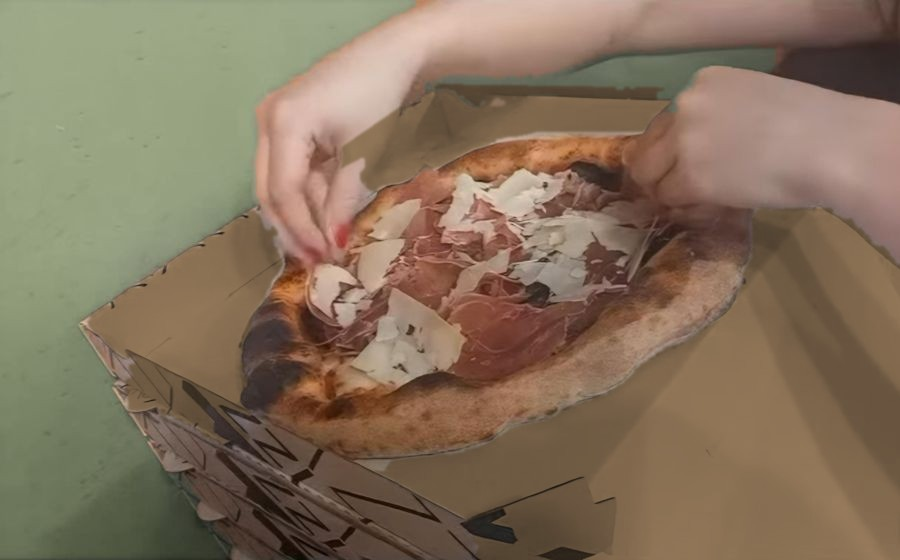
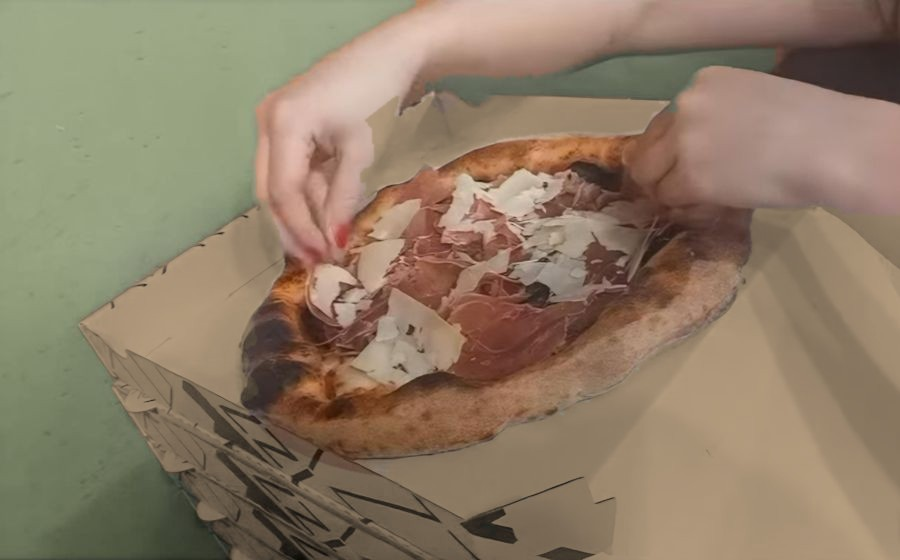
Prova: foto crudo rifatta, cartone craft uniforme con maschera precisa
Claude-Session: https://claude.ai/code/session_01VttuGCFUxa7xeo49rCehPE

diff --git a/_src/recolor/kraft.py b/_src/recolor/kraft.py
@@ -1,33 +1,40 @@
-# crudo.jpg: cartone bianco -> craft (disegni neri restano). uso: python3 kraft.py in.jpg out.jpg [anteprima.jpg]
+# crudo: cartone bianco -> craft uniforme (colore del fondo vicino alla «Z»), disegni neri invariati.
+# uso: python3 kraft.py originale.jpg out.jpg [maschera.jpg]
 import cv2,numpy as np,sys
 im=cv2.imread(sys.argv[1]);h,w=im.shape[:2]
 hsv=cv2.cvtColor(im,cv2.COLOR_BGR2HSV).astype(np.float32);H,S,V=hsv[...,0],hsv[...,1],hsv[...,2]
-box=((S<45)&(V>40)).astype(np.uint8)          # bianco/grigio/nero del cartone
-poly=np.array([(76,322),(255,206),(398,108),(430,84),(690,88),(900,178),(900,560),(215,560)],np.int32)
+poly=np.array([(78,322),(255,205),(395,96),(672,94),(900,196),(900,560),(222,560),(108,382)],np.int32)
 inbox=np.zeros((h,w),np.uint8);cv2.fillPoly(inbox,[poly],1)
-big=np.zeros((h,w),np.uint8);cv2.ellipse(big,(493,292),(285,175),-14,0,360,1,-1)
-sat=((S>55)&(big>0)).astype(np.uint8)
-sat=cv2.morphologyEx(sat,cv2.MORPH_CLOSE,cv2.getStructuringElement(cv2.MORPH_ELLIPSE,(41,41)))
-n,lab,st,_=cv2.connectedComponentsWithStats(sat,8);k=1+int(np.argmax(st[1:,4]));pz=(lab==k).astype(np.uint8)
-ff=pz.copy();m=np.zeros((h+2,w+2),np.uint8);cv2.floodFill(ff,m,(0,0),1);pz=pz|(1-ff)
-pz=cv2.erode(pz,np.ones((5,5),np.uint8))
-keep=(box&inbox).astype(np.uint8);keep[pz>0]=0
-keep=cv2.morphologyEx(keep,cv2.MORPH_OPEN,np.ones((3,3),np.uint8))
-n,lab,st,_=cv2.connectedComponentsWithStats(keep,8)
-k2=np.zeros_like(keep)
+hz=np.zeros((h,w),np.uint8)
+cv2.fillPoly(hz,[np.array([(250,0),(650,0),(650,92),(470,92),(420,130),(390,200),(350,262),(290,264),(248,150)],np.int32),
+                 np.array([(628,58),(900,58),(900,214),(760,212),(700,196),(650,176),(624,130)],np.int32)],1)
+skin=(hz>0)&(((H<=24)|(H>=165))&(S>=50))
+green=(H>=30)&(H<=95)&(S>=22)
+# pizza: zona satura grande e centrale, buchi piccoli (grana) riempiti
+sat=((S>55)&(H<=24)).astype(np.uint8)
+big=np.zeros((h,w),np.uint8);cv2.ellipse(big,(493,300),(280,170),-14,0,360,1,-1);sat[big==0]=0
+sat=cv2.morphologyEx(sat,cv2.MORPH_CLOSE,cv2.getStructuringElement(cv2.MORPH_ELLIPSE,(15,15)))
+inv=(1-sat).astype(np.uint8);n,lab,st,_=cv2.connectedComponentsWithStats(inv,4)
 for i in range(1,n):
-    if st[i,4]>400: k2[lab==i]=1
-keep=cv2.morphologyEx(k2,cv2.MORPH_CLOSE,np.ones((5,5),np.uint8));keep[pz>0]=0;keep[inbox==0]=0
-# zone indicate dal titolare (05.11): bordo dietro, vicino alla mano, sotto la pizza -> soglia più larga
-pzi=cv2.erode(pz,np.ones((13,13),np.uint8))
-for (x0,y0,x1,y1) in [(430,52,672,132),(325,92,490,240),(352,440,445,540)]:
-    r=np.zeros((h,w),np.uint8);r[y0:y1,x0:x1]=1
-    keep[(r>0)&(S<80)&(V>110)&(inbox>0)&(pz==0)]=1
-    keep[(r>0)&(S<50)&(V>140)&(inbox>0)&(pzi==0)]=1   # bordo chiaro attorno al cornicione
-a=cv2.GaussianBlur(keep.astype(np.float32),(0,0),1.2)[...,None]
-kraft=np.array([128,172,212],np.float32)/255   # BGR del craft chiaro
-L=V/255.0;Lc=np.where(L<0.45,L,0.45+(L-0.45)*0.65)   # schiarite compresse: interno uguale all'esterno, disegni neri invariati
-kr=(kraft*255)[None,None,:]*Lc[...,None]
-res=im.astype(np.float32)*(1-a)+kr*a
+    x,y,ww,hh,a=st[i]
+    if a<5000 and x>0 and y>0 and x+ww<w and y+hh<h:
+        reg=(lab==i);
+        # riempi solo se dentro l'ellisse ristretta della pizza (grana), non tra dita e cornicione
+        if big[reg].mean()>0.99 and cv2.pointPolygonTest(cv2.ellipse2Poly((493,300),(250,140),-14,0,360,5),(float(x+ww/2),float(y+hh/2)),False)>0: sat[reg]=1
+n,lab,st,_=cv2.connectedComponentsWithStats(sat,8);pz=np.zeros_like(sat)
+for i in range(1,n):
+    if st[i,4]>20000: pz[lab==i]=1
+box=((inbox>0)&~skin&~green&(pz==0)).astype(np.uint8)
+box=cv2.morphologyEx(box,cv2.MORPH_OPEN,np.ones((3,3),np.uint8))
+n,lab,st,_=cv2.connectedComponentsWithStats(box,8);k=np.zeros_like(box)
+for i in range(1,n):
+    if st[i,4]>300: k[lab==i]=1
+box=k
+a=cv2.GaussianBlur(box.astype(np.float32),(0,0),0.8)[...,None]
+target=np.array([138,170,196],np.float32)          # BGR craft (fondo vicino alla Z)
+vref=np.median(V[box>0]);r=np.clip(V/vref,0,1.6)
+r=np.where(r<0.6,r,0.6+(r-0.6)*0.45)               # luci uniformi, disegni neri restano
+res=im.astype(np.float32)*(1-a)+(target[None,None,:]*r[...,None])*a
 cv2.imwrite(sys.argv[2],res.clip(0,255).astype(np.uint8),[cv2.IMWRITE_JPEG_QUALITY,90])
-if len(sys.argv)>3: cv2.imwrite(sys.argv[3],np.hstack([im,res.clip(0,255).astype(np.uint8)]))
+if len(sys.argv)>3:
+    m=im.copy();m[box>0]=(m[box>0]*0.4+np.array([0,0,255])*0.6).astype(np.uint8);cv2.imwrite(sys.argv[3],m)
